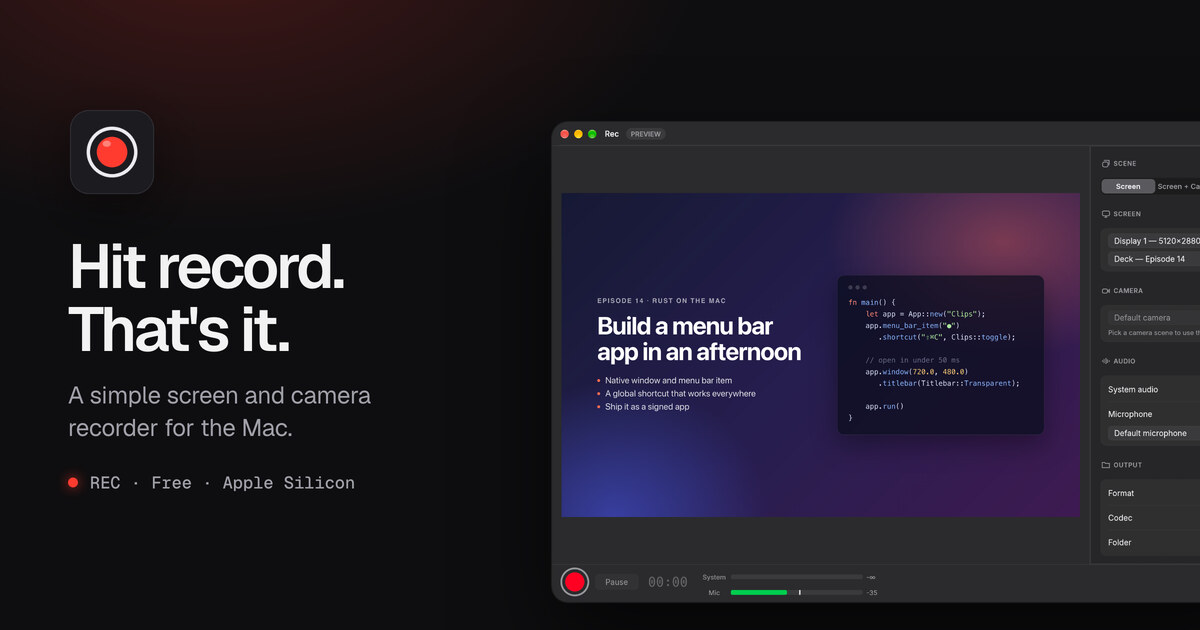
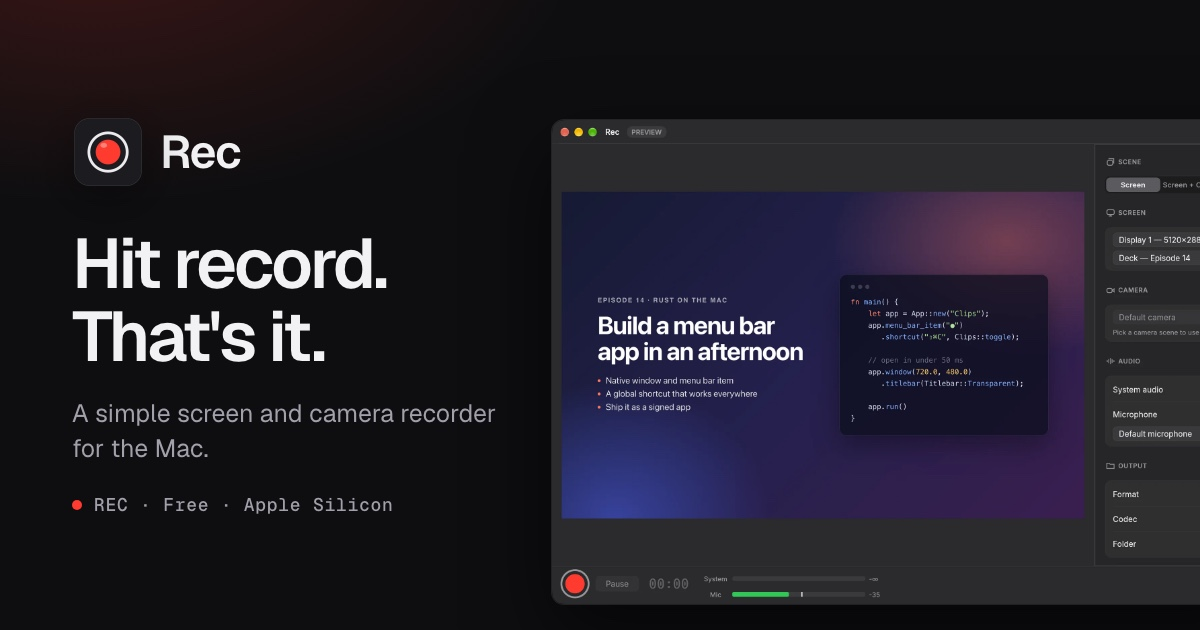
feat(site): complete the metadata and share image for rec.rasmic.xyz
SITE_URL still pointed at rec-rs.vercel.app, so the canonical link and
the Open Graph and Twitter image URLs sent crawlers and link previews to
the old domain. It is now https://rec.rasmic.xyz, and every absolute URL
on the page is built from it.

The head gains og:locale, og:image:type, twitter:image:alt and a
SoftwareApplication JSON-LD block (free, macOS, version, /download), and
the canonical link and og:url use the trailing-slash form. The
description now reuses the page's lede: 152 characters, so search
snippets show all of it, where the old one ran to 176. robots.txt points
to a new sitemap.xml.

The share image showed the name only in the screenshot's title bar. It
is now rendered from scripts/og/og.html by scripts/og/render.sh with
headless Chrome, and puts the icon and "Rec" above the headline.

diff --git a/site/src/routes/+page.svelte b/site/src/routes/+page.svelte
@@ -5,7 +5,27 @@
 	import lightLarge from '#lib/assets/rec-light-2160.webp';
 	import lightSmall from '#lib/assets/rec-light-1200.webp';
 	import ThemeToggle, { type Theme } from '#lib/ThemeToggle.svelte';
-	import { DESCRIPTION, REPO_URL, SITE_URL, TITLE, VERSION } from '#lib/site.ts';
+	import { DESCRIPTION, NAME, REPO_URL, SITE_URL, TITLE, VERSION } from '#lib/site.ts';
+
+	const pageUrl = `${SITE_URL}/`;
+	const ogImage = `${SITE_URL}/og.jpg`;
+	const ogImageAlt =
+		'The Rec icon and name above "Hit record. That\'s it." and "A simple screen and camera recorder for the Mac", beside a screenshot of the Rec window recording a slide.';
+	const jsonLd = JSON.stringify({
+		'@context': 'https://schema.org',
+		'@type': 'SoftwareApplication',
+		name: NAME,
+		description: DESCRIPTION,
+		url: pageUrl,
+		image: ogImage,
+		operatingSystem: 'macOS',
+		applicationCategory: 'MultimediaApplication',
+		offers: { '@type': 'Offer', price: '0', priceCurrency: 'USD' },
+		downloadUrl: `${SITE_URL}/download`,
+		softwareVersion: VERSION
+	}).replaceAll('<', '\\u003c');
+	// `<\/script>`: a literal closing tag would end this component's <script> block.
+	const jsonLdTag = `<script type="application/ld+json">${jsonLd}<\/script>`;
 
 	let theme = $state<Theme | null>(null);
 
@@ -21,23 +41,25 @@
 <svelte:head>
 	<title>{TITLE}</title>
 	<meta name="description" content={DESCRIPTION} />
-	<link rel="canonical" href={SITE_URL} />
+	<link rel="canonical" href={pageUrl} />
 	<meta property="og:type" content="website" />
-	<meta property="og:url" content={SITE_URL} />
-	<meta property="og:site_name" content="Rec" />
+	<meta property="og:url" content={pageUrl} />
+	<meta property="og:site_name" content={NAME} />
+	<meta property="og:locale" content="en_US" />
 	<meta property="og:title" content={TITLE} />
 	<meta property="og:description" content={DESCRIPTION} />
-	<meta property="og:image" content="{SITE_URL}/og.jpg" />
+	<meta property="og:image" content={ogImage} />
 	<meta property="og:image:width" content="1200" />
 	<meta property="og:image:height" content="630" />
-	<meta
-		property="og:image:alt"
-		content="Rec: Hit record. That's it. A simple screen and camera recorder for the Mac, beside a screenshot of the app."
-	/>
+	<meta property="og:image:type" content="image/jpeg" />
+	<meta property="og:image:alt" content={ogImageAlt} />
 	<meta name="twitter:card" content="summary_large_image" />
 	<meta name="twitter:title" content={TITLE} />
 	<meta name="twitter:description" content={DESCRIPTION} />
-	<meta name="twitter:image" content="{SITE_URL}/og.jpg" />
+	<meta name="twitter:image" content={ogImage} />
+	<meta name="twitter:image:alt" content={ogImageAlt} />
+	<!-- eslint-disable-next-line svelte/no-at-html-tags -->
+	{@html jsonLdTag}
 </svelte:head>
 
 <div class="wrap">

diff --git a/site/scripts/og/og.html b/site/scripts/og/og.html
@@ -1,0 +1,129 @@
+<!doctype html>
+<html lang="en">
+	<head>
+		<meta charset="utf-8" />
+		<style>
+			@font-face {
+				font-family: 'Geist';
+				font-weight: 100 900;
+				src: url('../../node_modules/@fontsource-variable/geist/files/geist-latin-wght-normal.woff2')
+					format('woff2');
+			}
+
+			@font-face {
+				font-family: 'Geist Mono';
+				font-weight: 100 900;
+				src: url('../../node_modules/@fontsource-variable/geist-mono/files/geist-mono-latin-wght-normal.woff2')
+					format('woff2');
+			}
+
+			* {
+				box-sizing: border-box;
+			}
+
+			html,
+			body {
+				width: 1200px;
+				height: 630px;
+				margin: 0;
+				overflow: hidden;
+			}
+
+			body {
+				position: relative;
+				background:
+					radial-gradient(44rem 26rem at 8% -14%, rgb(255 59 48 / 0.2), transparent 70%) no-repeat,
+					#0e0e10;
+				color: #f2f2f3;
+				font-family: 'Geist', sans-serif;
+				-webkit-font-smoothing: antialiased;
+			}
+
+			main {
+				position: absolute;
+				top: 0;
+				bottom: 0;
+				left: 72px;
+				display: flex;
+				flex-direction: column;
+				justify-content: center;
+				width: 440px;
+			}
+
+			.brand {
+				display: flex;
+				align-items: center;
+				gap: 16px;
+			}
+
+			.brand img {
+				width: 84px;
+				height: 84px;
+				margin: -6px;
+				filter: drop-shadow(0 10px 24px rgb(0 0 0 / 0.4));
+			}
+
+			.brand span {
+				font-size: 46px;
+				font-weight: 600;
+				letter-spacing: -0.03em;
+			}
+
+			h1 {
+				margin: 40px 0 22px;
+				font-size: 70px;
+				font-weight: 600;
+				line-height: 1.04;
+				letter-spacing: -0.04em;
+			}
+
+			.lede {
+				margin: 0;
+				color: #a1a1aa;
+				font-size: 25px;
+				line-height: 1.4;
+			}
+
+			.meta {
+				display: flex;
+				align-items: center;
+				gap: 12px;
+				margin: 30px 0 0;
+				color: #a1a1aa;
+				font: 500 18px/1 'Geist Mono', monospace;
+				letter-spacing: 0.04em;
+			}
+
+			.meta::before {
+				content: '';
+				width: 10px;
+				height: 10px;
+				border-radius: 50%;
+				background: #ff3b30;
+			}
+
+			.shot {
+				position: absolute;
+				top: 120px;
+				left: 552px;
+				width: 726px;
+				border-radius: 12px;
+				box-shadow:
+					0 0 0 1px rgb(255 255 255 / 0.1),
+					0 30px 80px rgb(0 0 0 / 0.6);
+			}
+		</style>
+	</head>
+	<body>
+		<main>
+			<div class="brand">
+				<img src="../../src/lib/assets/icon.webp" alt="" />
+				<span>Rec</span>
+			</div>
+			<h1>Hit record.<br />That's it.</h1>
+			<p class="lede">A simple screen and camera recorder for the Mac.</p>
+			<p class="meta">REC · Free · Apple Silicon</p>
+		</main>
+		<img class="shot" src="../../src/lib/assets/rec-dark-2160.webp" alt="" />
+	</body>
+</html>

diff --git a/site/src/lib/site.ts b/site/src/lib/site.ts
@@ -1,4 +1,4 @@
-export const SITE_URL = 'https://rec-rs.vercel.app';
+export const SITE_URL = 'https://rec.rasmic.xyz';
 
 export const VERSION = '0.1.0';
 
@@ -7,7 +7,9 @@ export const DOWNLOAD_URL =
 
 export const REPO_URL = 'https://github.com/michaelshimeles/rec-rs';
 
-export const TITLE = 'Rec: a simple screen and camera recorder for the Mac';
+export const NAME = 'Rec';
+
+export const TITLE = `${NAME}: a simple screen and camera recorder for the Mac`;
 
 export const DESCRIPTION =
-	'A simple, fast screen and camera recorder for the Mac. Screen, system audio, mic and webcam in one file, ready for Final Cut, Premiere and Resolve. A simple alternative to OBS.';
+	'A simple alternative to OBS for your Mac that records your screen, system audio, mic and webcam into one file, ready for Final Cut, Premiere or Resolve.';

diff --git a/site/README.md b/site/README.md
@@ -19,7 +19,10 @@ outside the synced checkout.
   `https://github.com/michaelshimeles/rec-rs/releases/latest/download/rec-rs-universal.dmg`.
   Every GitHub release must include an asset with exactly that name.
 - The version, URLs, title and description live in `src/lib/site.ts`. Update `VERSION` with
-  each release, and `SITE_URL` if the site gets another domain (Open Graph tags use it).
+  each release. If the site gets another domain, update `SITE_URL` (the canonical, Open Graph
+  and JSON-LD tags use it) and the domain in `static/robots.txt` and `static/sitemap.xml`.
+- `static/og.jpg` is the 1200x630 share image. Edit `scripts/og/og.html` and run
+  `scripts/og/render.sh` to regenerate it; it needs Google Chrome and `npm install`.
 - The screenshots in `src/lib/assets/` are the Rec window at 1200x800 pt, captured from the app
   in light and dark appearance and encoded as WebP at 2160 and 1200 px wide.
 - Fonts (Geist, Geist Mono) are bundled from `@fontsource-variable`, so the page makes no
